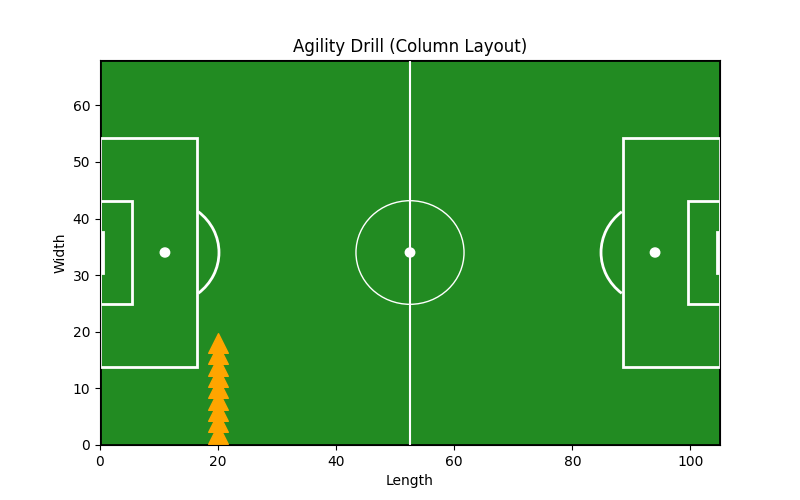
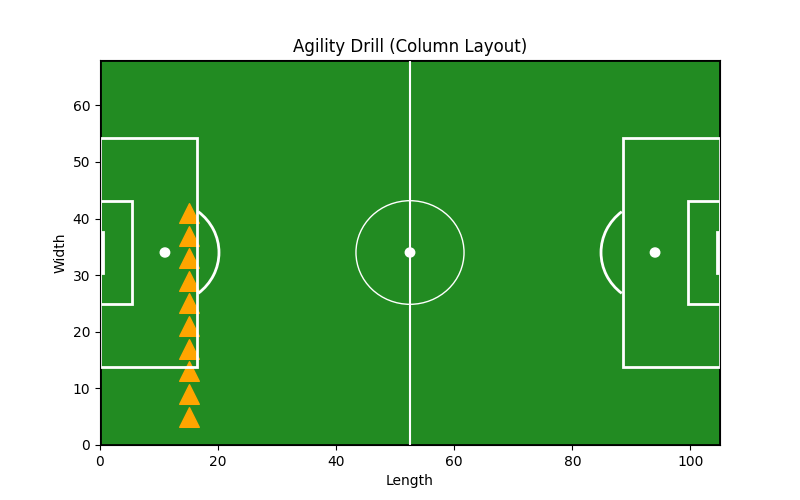
🚀 feat: adjust row and column step values in ConeLayoutSetup for improved layout positioning

Changed region(s): [[0.2188, 0.39, 0.2812, 0.9]]

diff --git a/src/cone_layout_setup.py b/src/cone_layout_setup.py
@@ -12,9 +12,9 @@ ZIGZAG_STEP_X = 6
 ZIGZAG_STEP_Y = 12
 DIAGONAL_STEP = 6
 ROW_Y = 20
-ROW_STEP = 2
-COLUMN_X = 20
-COLUMN_STEP = 2
+ROW_STEP = 4
+COLUMN_X = 15
+COLUMN_STEP = 4
 SQUARE_SIDE_LENGTH = 15
 NUM_CONES = 10
 
@@ -50,7 +50,7 @@ class ConeLayoutSetup:
         )
 
     def setup_row(self):
-        cone_positions = [(i * ROW_STEP, ROW_Y) for i in range(NUM_CONES)]
+        cone_positions = [(5+ i * ROW_STEP, ROW_Y) for i in range(NUM_CONES)]
         self._draw_and_save(
             cone_positions,
             "row_layout.png",
@@ -61,7 +61,7 @@ class ConeLayoutSetup:
         cone_positions = [
             (
                 COLUMN_X,
-                i * COLUMN_STEP,
+                5+ i * COLUMN_STEP,
             )
             for i in range(NUM_CONES)
         ]
